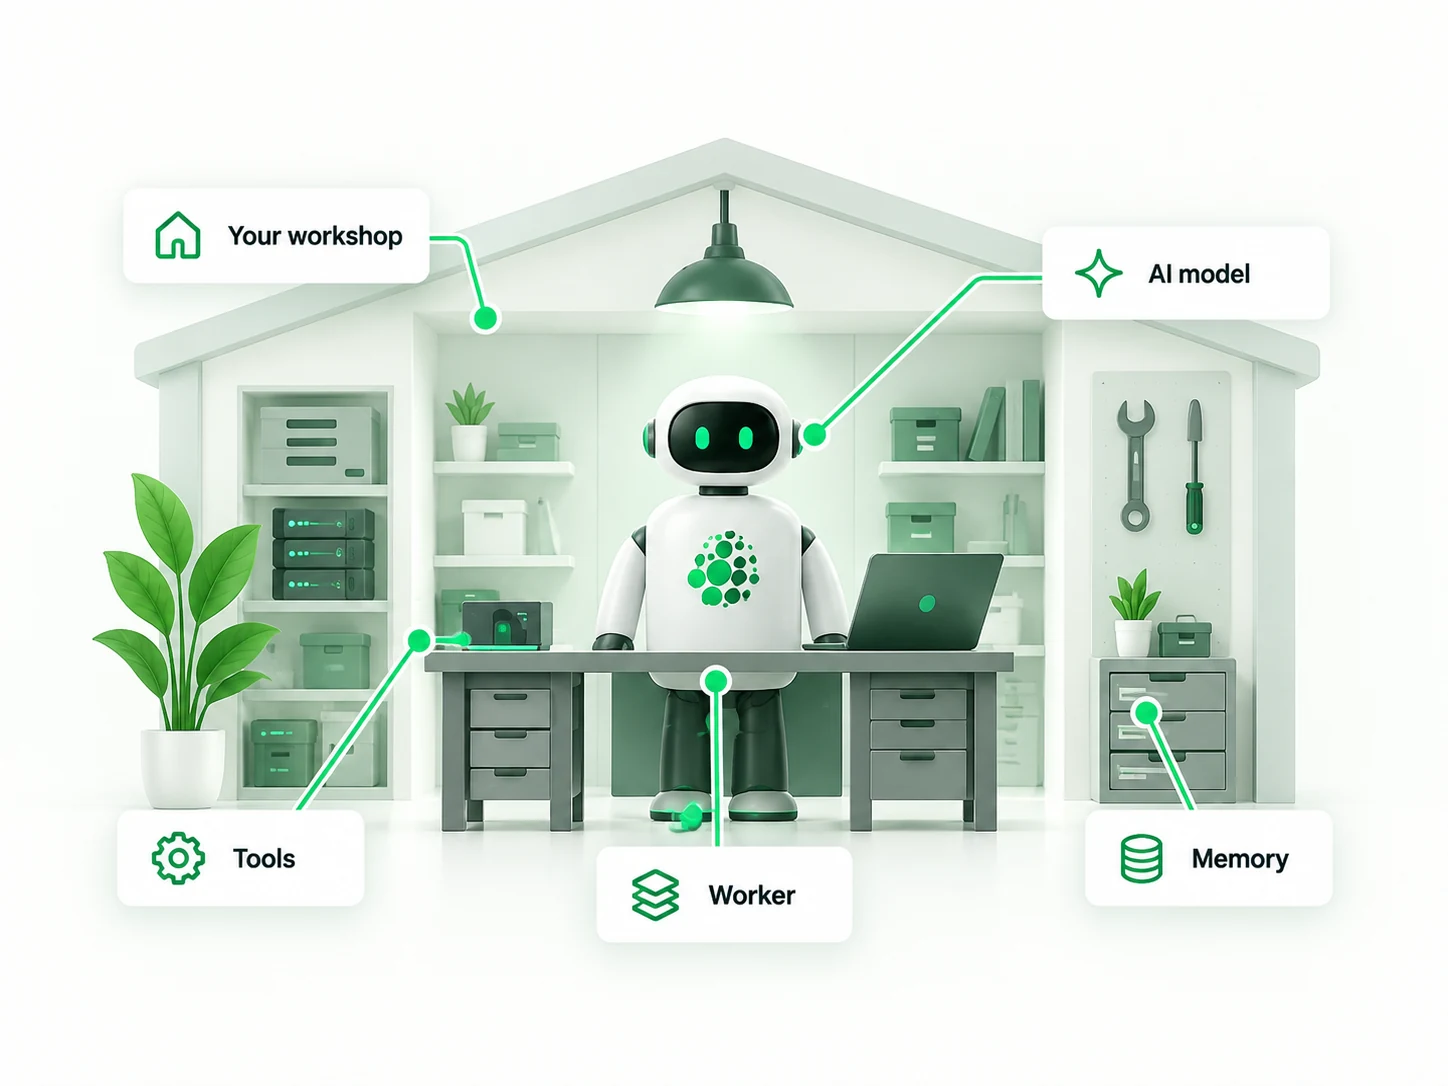
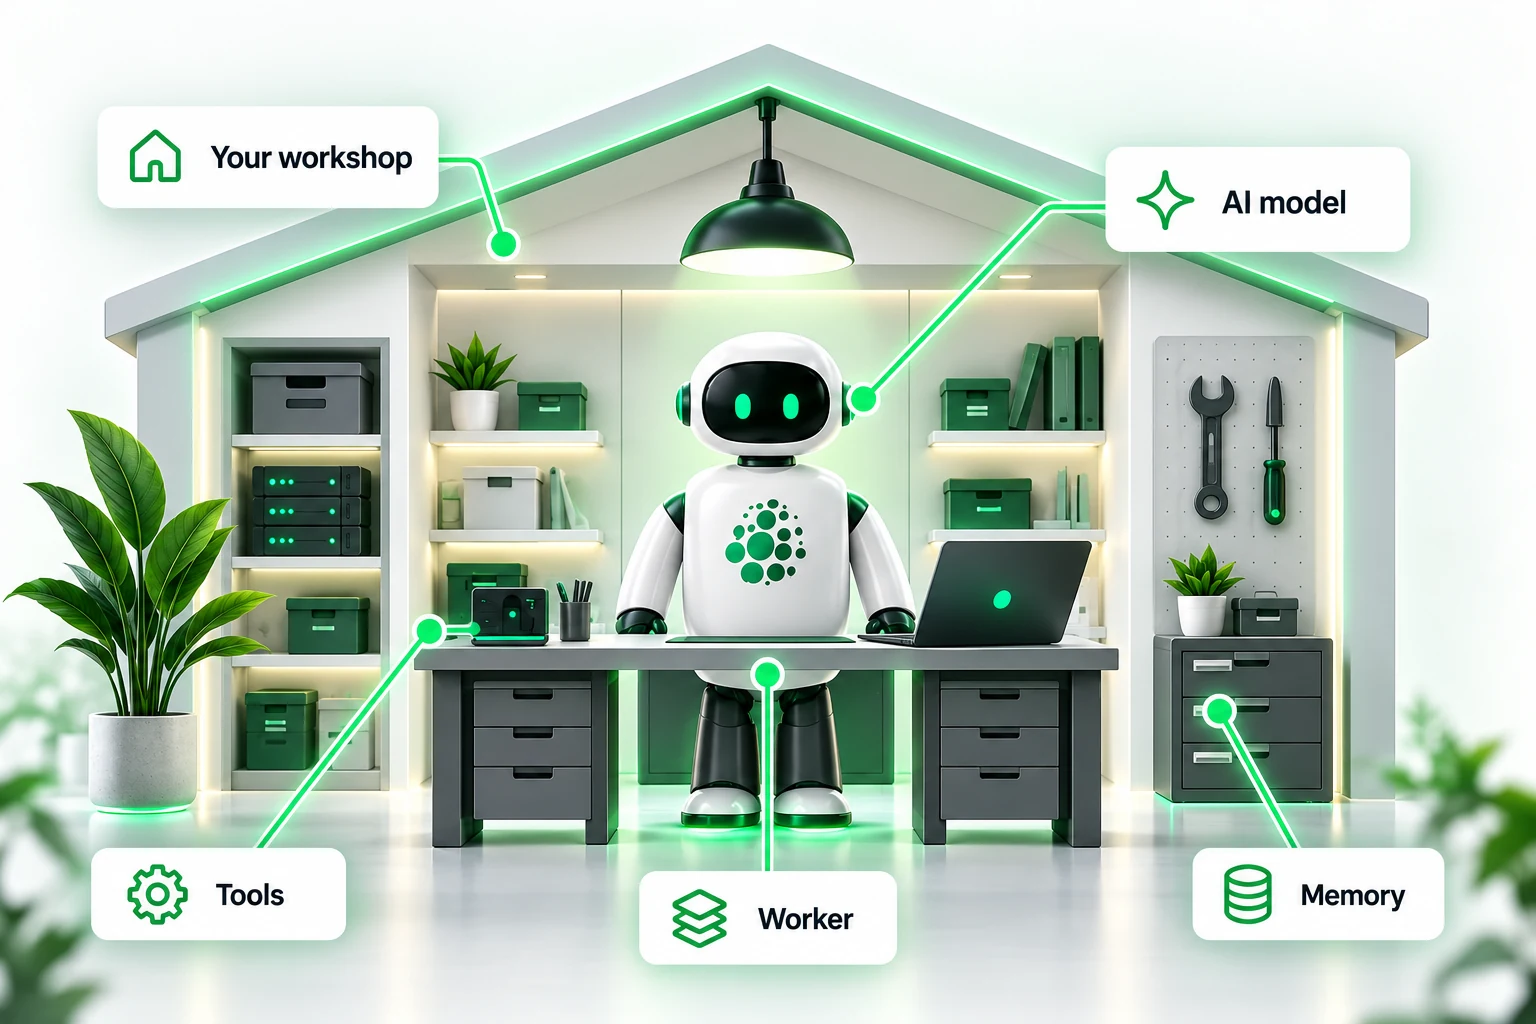
How It Works: new workshop illustration, integrated ownership section
Replace the workshop artwork, drop its card frame in favour of feathered
edges and a soft green glow, let it run into the left margin, and turn the
five-item legend into a single row of pills.

diff --git a/src/styles/pages.css b/src/styles/pages.css
@@ -275,13 +275,21 @@
 .hiw-memory__img{width:100%;max-width:1120px;height:auto;margin:0 auto;display:block}
 .hiw-memory .dmobile .dcard .ico{width:22px;height:22px;color:var(--green-800)}
 .hiw-caption{max-width:740px;margin:28px auto 0;text-align:center;color:var(--muted);font-size:16.5px;line-height:1.6}
-.hiw-own{background:#eef5ef;padding:88px 0 96px;border-bottom:1px solid var(--line)}
-.hiw-own__grid{display:grid;grid-template-columns:minmax(0,54%) minmax(0,46%);gap:52px;align-items:center}
-.hiw-own__art img{width:100%;height:auto;border-radius:18px;border:1px solid var(--line);box-shadow:0 30px 70px -30px rgba(0,0,0,.22);background:#fff}
-.legend{list-style:none;padding:0;display:grid;grid-template-columns:repeat(5,1fr);gap:10px;margin-top:16px}
-.legend li{display:flex;gap:8px;align-items:flex-start;font-size:12.5px;line-height:1.4;color:var(--muted)}
-.legend .ico{width:18px;height:18px;flex:none;color:var(--green-700);margin-top:1px}
-.legend strong{display:block;color:var(--ink);font-size:12.5px;margin-bottom:1px}
+.hiw-own{background:linear-gradient(180deg,#f7fbf8 0%,#edf5ee 100%);padding:80px 0 92px;border-bottom:1px solid var(--line);overflow:hidden}
+.hiw-own__grid{display:grid;grid-template-columns:minmax(0,57%) minmax(0,43%);gap:40px;align-items:center}
+.hiw-own__art{position:relative;margin-left:calc(-1*var(--gutter) + 8px)}
+.hiw-own__art::before{content:"";position:absolute;left:12%;right:12%;top:14%;bottom:16%;border-radius:50%;background:radial-gradient(closest-side,rgba(34,197,94,.22),rgba(34,197,94,0) 72%);filter:blur(28px);z-index:0}
+.hiw-own__art img{
+  position:relative;z-index:1;width:100%;height:auto;
+  -webkit-mask-image:linear-gradient(to right,transparent 0,#000 4.5%,#000 95.5%,transparent 100%),linear-gradient(to bottom,transparent 0,#000 4%,#000 95%,transparent 100%);
+  -webkit-mask-composite:source-in;
+  mask-image:linear-gradient(to right,transparent 0,#000 4.5%,#000 95.5%,transparent 100%),linear-gradient(to bottom,transparent 0,#000 4%,#000 95%,transparent 100%);
+  mask-composite:intersect;
+}
+.legend{list-style:none;padding:0;display:flex;flex-wrap:wrap;justify-content:center;gap:8px;margin-top:4px;position:relative;z-index:1}
+.legend li{display:inline-flex;align-items:center;gap:8px;background:#fff;border:1px solid var(--line);border-radius:999px;padding:7px 13px 7px 10px;font-size:13px;font-weight:500;color:var(--ink);box-shadow:0 1px 2px rgba(16,16,16,.04)}
+.legend .ico{width:16px;height:16px;flex:none;color:var(--green-700)}
+.legend strong{font-weight:500}
 .hiw-own__copy h3{font-size:clamp(24px,2.3vw,30px);letter-spacing:-.025em;line-height:1.15;margin-bottom:16px}
 .hiw-own__copy p{font-size:17px;line-height:1.65;color:var(--muted);margin-bottom:24px}
 .checks{list-style:none;padding:0;display:grid;gap:12px}
@@ -311,7 +319,7 @@
   .flow3__card{min-height:0}
   .flow3__arrow{transform:rotate(90deg);justify-self:center}
   .hiw-own__grid{grid-template-columns:1fr;gap:32px}
-  .legend{grid-template-columns:repeat(2,1fr)}
+  .hiw-own__art{margin-left:0}
   .hiw-arch__img{display:none}
   .flow5{display:grid;grid-template-columns:1fr 1fr;gap:14px}
   .flow5__note{display:flex}
@@ -319,7 +327,7 @@
   .vcards{grid-template-columns:1fr}
   .hiw-memory,.hiw-own,.hiw-arch,.hiw-value{padding:64px 0 72px}
 }
-@media (max-width:560px){ .flow5{grid-template-columns:1fr} .legend{grid-template-columns:1fr} }
+@media (max-width:560px){ .flow5{grid-template-columns:1fr} }
 
 /* architecture: graphic carries its own caption on wide screens; HTML row + caption below 960px */
 .hiw-arch .flow5__note{display:none}
